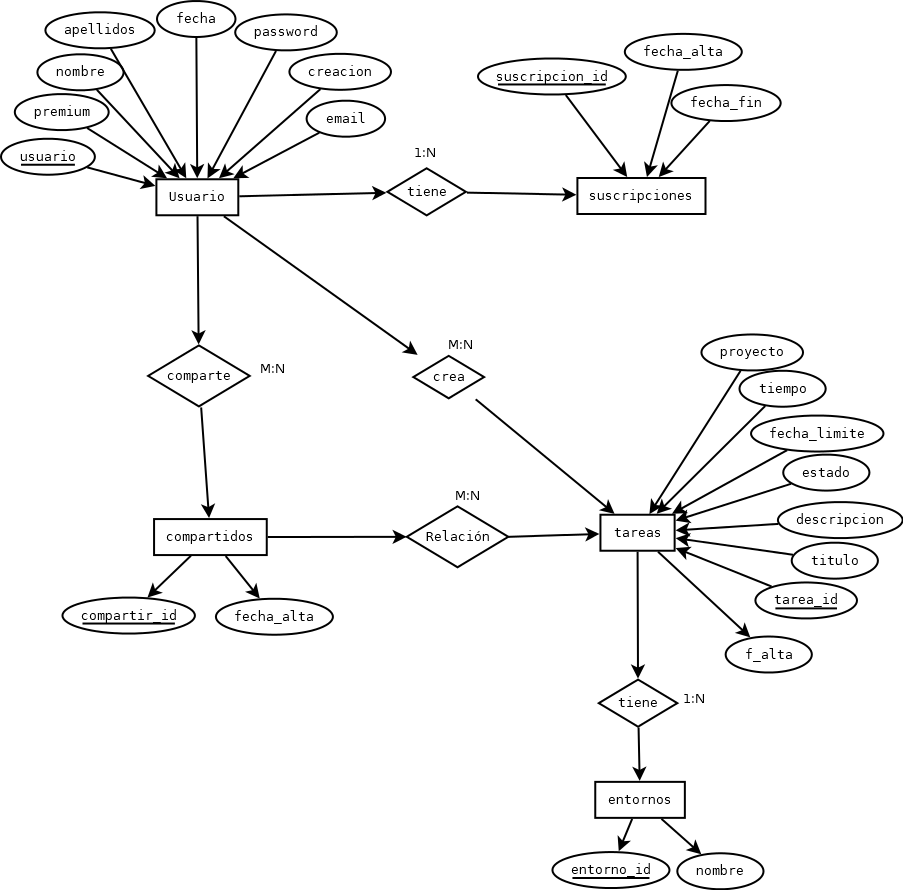
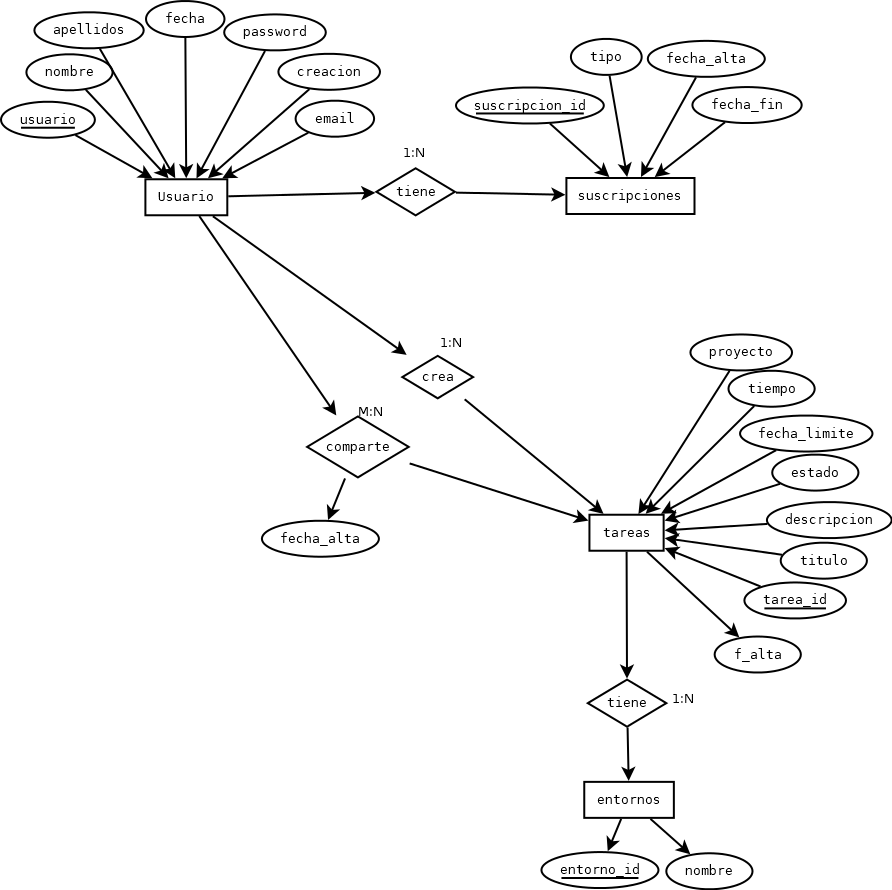
arreglos

diff --git a/springdev/src/main/java/com/app/springdev/services/SuscripcionServiceManager.java b/springdev/src/main/java/com/app/springdev/services/SuscripcionServiceManager.java
@@ -1,51 +1,55 @@
 package com.app.springdev.services;
 
-import java.time.LocalDate;
 import java.util.List;
 
-import com.app.springdev.model.Suscripcion;
+import org.springframework.stereotype.Service;
 
+import com.app.springdev.model.Suscripcion;
+import com.app.springdev.repositories.SuscripcionRepository;
+
+@Service
 public class SuscripcionServiceManager implements SuscripcionService {
 
-    private final SuscripcionService suscripcionService;
+    private final SuscripcionRepository suscripcionRepository;
 
-    public SuscripcionServiceManager(SuscripcionService suscripcionService) {
-        this.suscripcionService = suscripcionService;
+    
+    public SuscripcionServiceManager(SuscripcionRepository suscripcionRepository) {
+        this.suscripcionRepository = suscripcionRepository;
     }
 
     @Override
     public Suscripcion deleteById(Long suscripcion_id) {
-       Suscripcion suscripcionBorrada = this.suscripcionService.findById(suscripcion_id);
-       this.suscripcionService.deleteById(suscripcion_id);
+       Suscripcion suscripcionBorrada = this.suscripcionRepository.findById(suscripcion_id).get();
+       this.suscripcionRepository.deleteById(suscripcion_id);
        return suscripcionBorrada;
     }
 
     @Override
     public Boolean existsById(Long suscripcion_id) {
-        return this.suscripcionService.existsById(suscripcion_id);
+        return this.suscripcionRepository.existsById(suscripcion_id);
     }
 
     @Override
     public List<Suscripcion> findAll() {
-        return (List<Suscripcion>) this.suscripcionService.findAll();
+        return (List<Suscripcion>) this.suscripcionRepository.findAll();
     }
 
     @Override
     public Suscripcion findById(Long suscripcion_id) {
-        return this.suscripcionService.findById(suscripcion_id);
+        return this.suscripcionRepository.findById(suscripcion_id).get();
     }
 
     @Override
     public Suscripcion save(Suscripcion suscripcion) {
-       return this.suscripcionService.save(suscripcion);
+       return this.suscripcionRepository.save(suscripcion);
     }
 
     @Override
     public Suscripcion update(Long suscripcion_id, Suscripcion suscripcion) {
-        Suscripcion suscripcionModificar=this.suscripcionService.findById(suscripcion_id);
+        Suscripcion suscripcionModificar=this.suscripcionRepository.findById(suscripcion_id).get();
         suscripcionModificar.setFecha_alta(suscripcion.getFecha_alta());
         suscripcionModificar.setFecha_fin(suscripcion.getFecha_fin());
-        return this.suscripcionService.save(suscripcionModificar);
+        return this.suscripcionRepository.save(suscripcionModificar);
 
 
     }

diff --git a/springdev/src/main/java/com/app/springdev/model/Usuario.java b/springdev/src/main/java/com/app/springdev/model/Usuario.java
@@ -5,6 +5,8 @@ import org.hibernate.annotations.CreationTimestamp;
 import jakarta.persistence.Column;
 import jakarta.persistence.Entity;
 import jakarta.persistence.Id;
+import jakarta.persistence.JoinColumn;
+import jakarta.persistence.OneToOne;
 import jakarta.persistence.Table;
 import jakarta.validation.constraints.Size;
 import java.sql.Timestamp;
@@ -29,22 +31,17 @@ public class Usuario {
     private Timestamp fecha_nacimiento;
     @CreationTimestamp
     private Timestamp fecha_alta;
-    private boolean premium=false;
+
+    @OneToOne
+    @JoinColumn(name = "suscripcion_id")
+    private Suscripcion suscripcion;
     
     public Usuario() {
     }
 
-    public Usuario(String usuario, String password, String nombre, String apellidos, String email,
-            Timestamp fecha_nacimiento, Timestamp fecha_alta, boolean premium) {
-        this.usuario = usuario;
-        this.password = password;
-        this.nombre = nombre;
-        this.apellidos = apellidos;
-        this.email = email;
-        this.fecha_nacimiento = fecha_nacimiento;
-        this.fecha_alta = fecha_alta;
-        this.premium = premium;
-    }
+ 
+
+
 
     public String getUsuario() {
         return usuario;
@@ -102,13 +99,6 @@ public class Usuario {
         this.fecha_alta = fecha_alta;
     }
 
-    public boolean isPremium() {
-        return premium;
-    }
-
-    public void setPremium(boolean premium) {
-        this.premium = premium;
-    } 
 
     
 

diff --git a/springdev/src/main/java/com/app/springdev/model/Suscripcion.java b/springdev/src/main/java/com/app/springdev/model/Suscripcion.java
@@ -8,9 +8,15 @@ import jakarta.persistence.Entity;
 import jakarta.persistence.GeneratedValue;
 import jakarta.persistence.GenerationType;
 import jakarta.persistence.Id;
+import jakarta.persistence.OneToOne;
+import jakarta.persistence.PostPersist;
+import jakarta.persistence.Table;
+
 import java.sql.Timestamp;
+import java.time.LocalDateTime;
 
 @Entity
+@Table(name = "suscripciones")
 public class Suscripcion {
 
     @Id
@@ -21,6 +27,9 @@ public class Suscripcion {
     private Timestamp fecha_alta;
     @Column(nullable = false)
     private Timestamp fecha_fin;
+
+    @OneToOne(mappedBy = "suscripcion")
+    private Usuario usuario;
     
     
     public Suscripcion() {
@@ -54,6 +63,11 @@ public class Suscripcion {
 
     public void setFecha_fin(Timestamp fecha_fin) {
         this.fecha_fin = fecha_fin;
+    }
+
+    @PostPersist
+    public void asignarFecha(){
+        this.fecha_fin=Timestamp.valueOf(LocalDateTime.now().plusMonths(1));
     }
 
     

diff --git a/springdev/src/main/java/com/app/springdev/services/UsuarioServiceManager.java b/springdev/src/main/java/com/app/springdev/services/UsuarioServiceManager.java
@@ -53,7 +53,6 @@ public class UsuarioServiceManager implements UsuarioService {
         usuarioModificar.setFecha_nacimiento(user.getFecha_nacimiento());
         usuarioModificar.setUsuario(user.getUsuario());
         usuarioModificar.setPassword(user.getPassword());
-        usuarioModificar.setPremium(user.isPremium());
         return this.usuarioRepository.save(usuarioModificar);
     }
 
